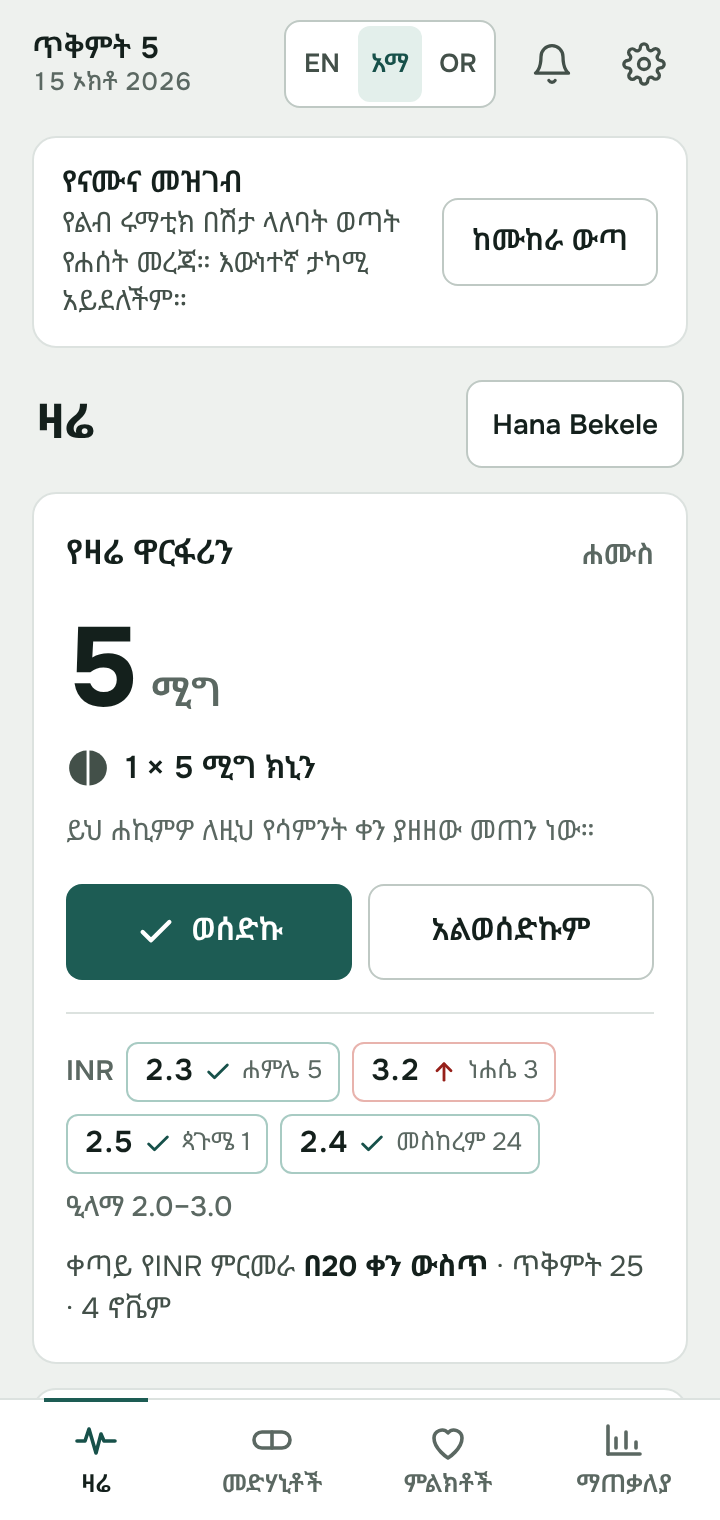
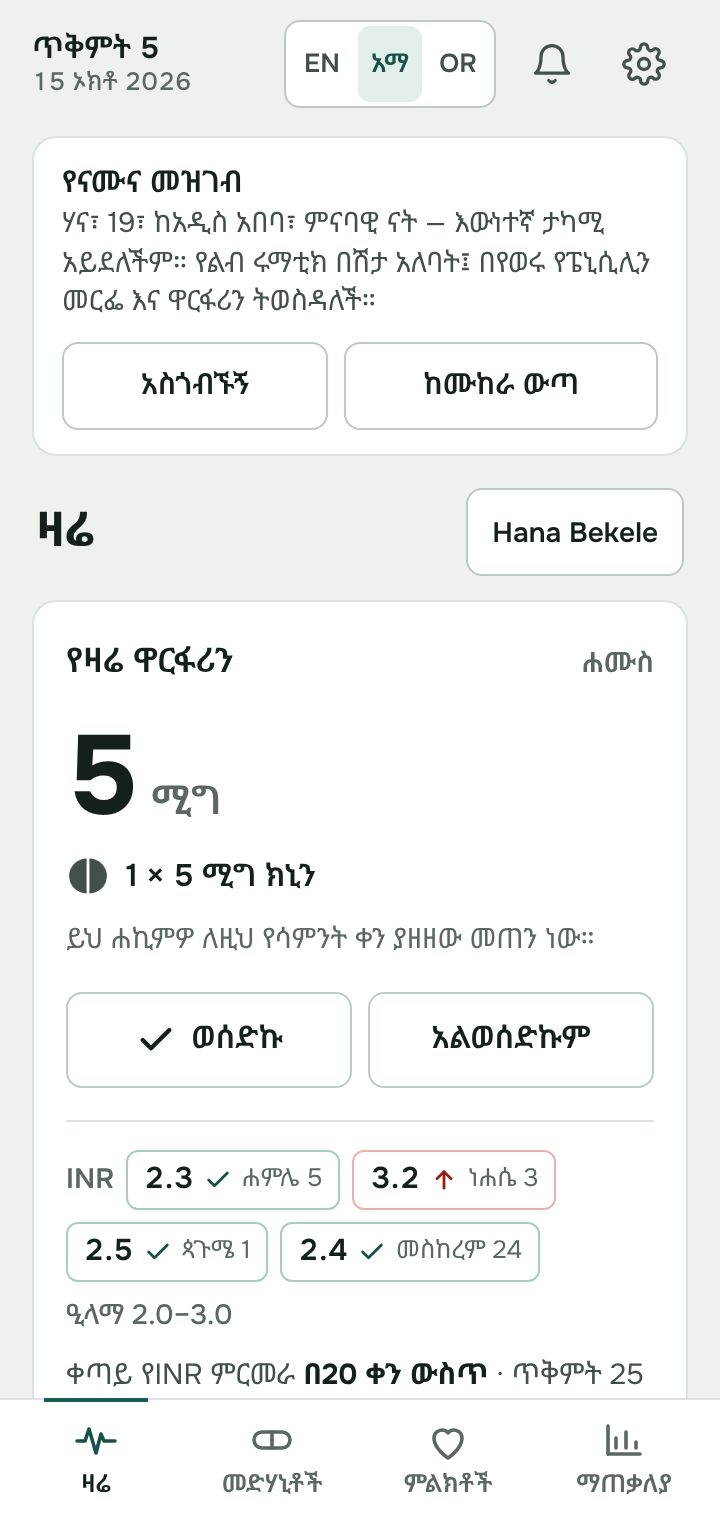
Docs and screenshots for the demo quick wins
NEEDS-CLINICAL-REVIEW.md lists the tour texts that restate safety
rules, the translated sample Medical ID and order, and every new
Amharic and Afaan Oromo string for a native-speaker check. README gets
the first-screen and tour screenshots; the others are retaken.

Claude-Session: https://claude.ai/code/session_01SWPMgFvgwrMHXj6uapqePX

diff --git a/docs/NEEDS-CLINICAL-REVIEW.md b/docs/NEEDS-CLINICAL-REVIEW.md
@@ -14,6 +14,9 @@ copied from `www/index.html`; the key names let anyone find them there.
 | 1 | Main and About disclaimers mention the camera pulse | **In the app, waiting for clinical review** |
 | 2 | "Not a medical device" line beside the camera button | **In the app, waiting for clinical review** (existing text, new place) |
 | 3 | Amharic and Afaan Oromo camera texts | **Drafts, need a native-speaker check** |
+| 4 | Guided tour: two stops restate safety rules in plain words | **In the app (sample record only), please check** |
+| 5 | Sample record: Medical ID text and nurse's order in Amharic and Afaan Oromo | **Drafts, please check** (made-up patient, but medical terms) |
+| 6 | First screen, sample banner, tour and sample notes in Amharic and Afaan Oromo | **Drafts, need a native-speaker check** (not health wording) |
 
 ## 1. Disclaimers mention the camera pulse
 
@@ -94,3 +97,53 @@ also still apply now that the camera is on everywhere: clinical sign-off of
 the camera screen and the "uneven beats" note, real-world validation against
 a pulse oximeter or a manual count on the phones patients use, atrial
 fibrillation, and phones without a controllable light.
+
+## 4. Guided tour: two stops restate safety rules
+
+- **Added in:** the demo quick-wins change (15 October 2026), approved by
+  Amin as part of the competition bundle. Only shown on the sample record.
+- **No existing health or warning wording changed.** The warning-sign
+  lists, their headings and every medical text are exactly as before. The
+  tour's titles reuse the existing card titles.
+- Two tour texts describe what a screen does in words that touch the safety
+  rules, so they are listed here to be safe:
+
+| Key | English (Amharic and Afaan Oromo drafts are next to it in `www/index.html`) |
+|---|---|
+| `tourWarfarinText` | Shows the dose the doctor wrote for today. The app never works out, suggests or changes a dose. |
+| `tourWarnText` | Two fixed lists: when to get help now, and when to call the clinic today. The app does not decide anything for you. |
+
+- **Please check:** that these say no more than the app does (charter rules
+  1 and 2), and that "Two fixed lists" matches how a clinician would want
+  the warning signs described.
+
+## 5. Sample record: Medical ID text and nurse's order
+
+The sample patient is made up, but two of her texts use medical terms. They
+are now in Amharic and Afaan Oromo too (`www/js/demo.js`, `TEXT`), so the
+sample reads in the app's language. The medical terms (mitral stenosis,
+left atrium) are kept in English in brackets.
+
+- The **doctor's order** keeps the exact English line in every language:
+  `Benzathine penicillin G 1.2 million units into the muscle every 28 days`.
+  Only the sentence around it ("Sample order, not a real patient. As the
+  doctor wrote:") is translated. `tests/page/demo.test.js` fails if a
+  language loses that line, so a dose is never re-worded.
+- **Please check:** the Amharic and Afaan Oromo `clinicalInfo` and `order`
+  in `www/js/demo.js`.
+
+## 6. New text in Amharic and Afaan Oromo (not health wording)
+
+All drafts, written without a native speaker. They should be checked before
+the demo is shown in Amharic or Afaan Oromo (for example in the competition
+video):
+
+- First screen: `welcomeWho`, `welcomeOffline`, `welcomeLangs`, `langGroupLabel`.
+- Sample banner: `demoBannerText` (rewritten to introduce Hana), `demoTourBtn`.
+- Tour: `tourLabel`, `tourStepOf`, `tourNext`, `tourBack`, `tourSkip`,
+  `tourDone`, `tourInjText`, `tourWarfarinText`, `tourWarnText`,
+  `tourLangText`, `tourVisitText`.
+- Sample record words in `www/js/demo.js` (`TEXT.am`, `TEXT.or`): the four
+  daily notes and the medicine's purpose.
+- In Amharic the banner writes the name as ሃና; the profile name stays
+  "Hana Bekele" in Latin letters, as before.

diff --git a/README.md b/README.md
@@ -5,8 +5,10 @@ with no account, no cloud and no internet connection, and it helps people
 living with heart disease keep their own record between clinic visits.
 
 **Try it:** https://cardiac-companion.vercel.app — tap "Try the sample
-record" to look around with a made-up patient. The demo runs in the browser
-and keeps anything you type in that browser only.
+record" to look around with a made-up patient. A five-stop guided tour
+starts on its own (skip it any time). The first screen and the sample come
+in English, Amharic and Afaan Oromo. The demo runs in the browser and keeps
+anything you type in that browser only.
 
 Version 4.0 (Android app in progress). The web demo is built from the same
 code, on every push to `main` (see `docs/demo-build.md`).
@@ -48,9 +50,9 @@ From the web demo with the sample record (made-up data, not a real patient).
 |---|---|---|
 | <img src="docs/screenshots/today.png" width="240" alt="Today: the sample record banner, today's warfarin dose as the doctor wrote it, and INR results against the target range"> | <img src="docs/screenshots/medicines.png" width="240" alt="Medicines tab with the sample record"> | <img src="docs/screenshots/summary.png" width="240" alt="Summary: adherence, weight change and symptom days, with a weight chart"> |
 
-| Amharic | Camera pulse, with its disclaimer |
-|---|---|
-| <img src="docs/screenshots/today-amharic.png" width="240" alt="Today screen in Amharic with the Ethiopian date"> | <img src="docs/screenshots/camera-pulse.png" width="240" alt="Pulse entry: the Measure with camera button with the not-a-medical-device line right under it"> |
+| First screen | Guided tour | Amharic | Camera pulse, with its disclaimer |
+|---|---|---|---|
+| <img src="docs/screenshots/welcome.png" width="240" alt="First screen: who the app is for, works offline, sends nothing, three languages, with language buttons"> | <img src="docs/screenshots/tour.png" width="240" alt="Guided tour, stop 1 of 5: the penicillin card outlined, with a card explaining Show to the nurse"> | <img src="docs/screenshots/today-amharic.png" width="240" alt="Today screen in Amharic with the Ethiopian date"> | <img src="docs/screenshots/camera-pulse.png" width="240" alt="Pulse entry: the Measure with camera button with the not-a-medical-device line right under it"> |
 
 ## Privacy
 

diff --git a/CHANGES.md b/CHANGES.md
@@ -11,6 +11,31 @@ Amin turned Vercel deploys on for the competition demo on 13 October 2026,
 and every push to `main` runs `npm run build:web` and publishes `dist/`
 (see `docs/demo-build.md`).
 
+## Demo quick wins (15 October 2026, approved by Amin)
+- **Guided tour** after "Try the sample record", and again from "Take the
+  tour" on the sample banner: the penicillin card (Show to the nurse), the
+  warfarin card (the app never works out a dose), the warning signs, the
+  language switch and the visit summary. A plain card and an outline, no
+  animation. Skip, Done, Android's back button and Escape close it. It
+  saves nothing and runs only on the sample (`tests/page/tour.test.js`).
+- **First screen** says who the app is for (young people in Ethiopia with
+  rheumatic heart disease, and their families), that it works offline and
+  sends nothing, and that it comes in three languages with the Ethiopian
+  calendar. The language buttons are on it too. The pills now follow their
+  own `data-lang`, not their position, since there are two sets.
+- **Sample banner** introduces Hana (made up, 19, Addis Ababa, monthly
+  penicillin and warfarin) and has a "Take the tour" button. On a phone the
+  buttons go under the words, which fixes the narrow Afaan Oromo column.
+- **Sample record in three languages:** notes, the medicine's purpose, the
+  Medical ID text and the nurse's order (`www/js/demo.js`). Switching
+  language relabels them on the sample only, and only text nobody edited.
+  The penicillin order keeps the exact English dose line in every language.
+- **Demo clean-up:** the empty "No name yet" person is no longer listed next
+  to the sample (it stays on the phone; Exit demo returns to it), and the
+  untapped Taken button is no longer filled green, here or for real records.
+- No health or warning wording changed. New Amharic and Afaan Oromo text is
+  listed in `docs/NEEDS-CLINICAL-REVIEW.md` (items 4–6) for checking.
+
 ## Competition clean-up (15 October 2026)
 - **Camera pulse is on everywhere** (Amin's decision, `docs/android/DECISIONS.md`):
   the web demo and the Android app, debug and release. The Android app now
